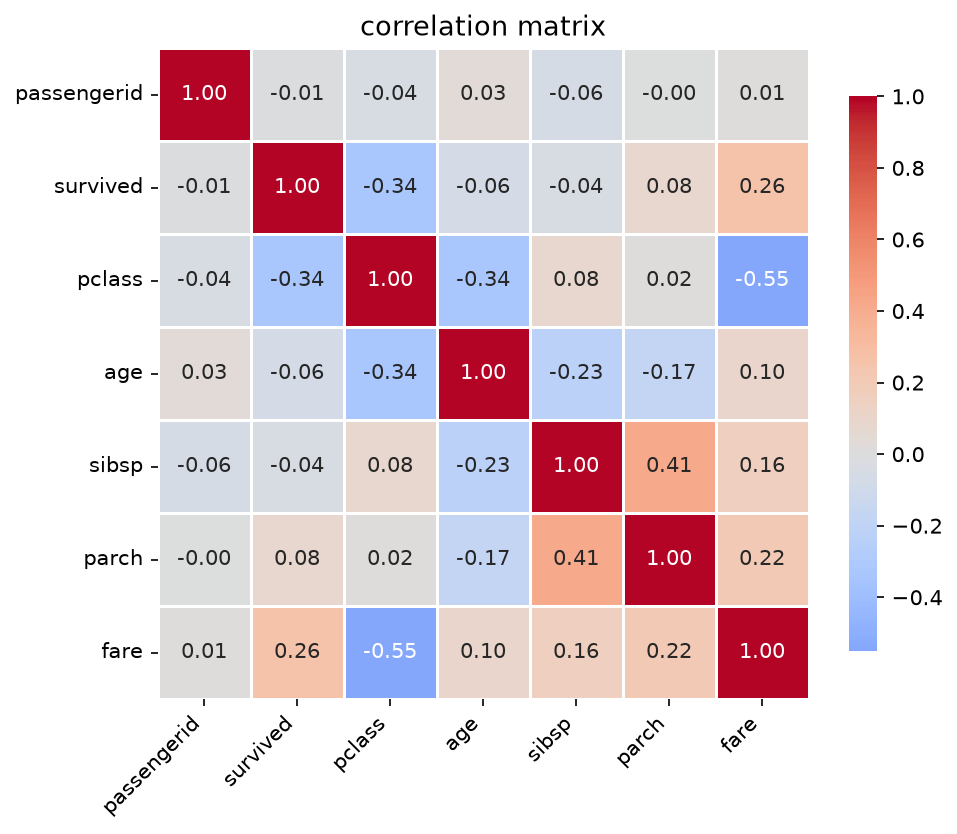
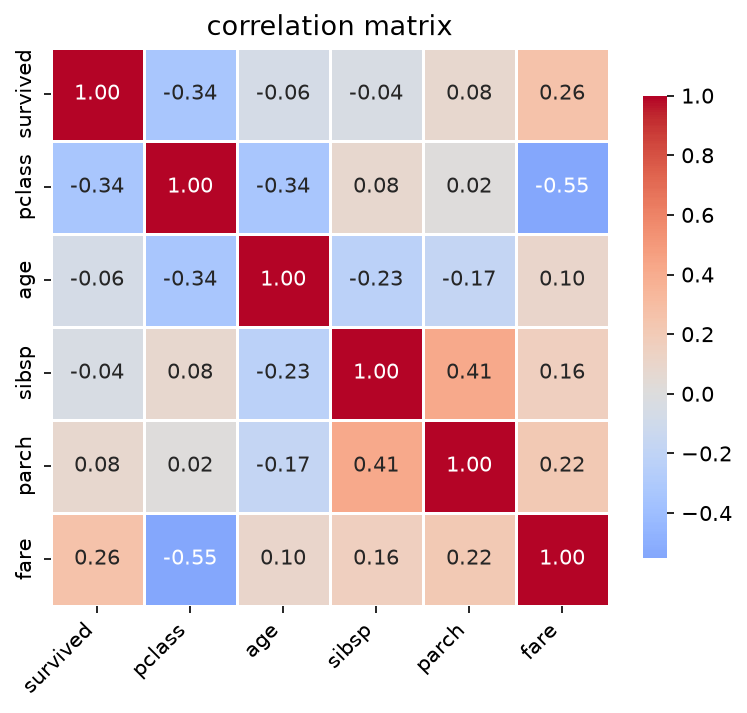
feat: add chat with data feature — ask questions about your dataset

diff --git a/streamlit_app.py b/streamlit_app.py
@@ -555,3 +555,61 @@ if "results" in st.session_state:
             file_name="smartdata_report.md",
             mime="text/markdown",
         )
+
+
+# ── chat with your data ───────────────────────────────────────────────────────
+st.markdown("---")
+st.markdown('<p class="section-label">Ask a question about your data</p>', unsafe_allow_html=True)
+
+# clear chat history when a new file is uploaded
+if "last_file" not in st.session_state or st.session_state["last_file"] != uploaded_file.name:
+    st.session_state["chat_history"] = []
+    st.session_state["last_file"] = uploaded_file.name
+
+# show existing chat messages
+if "chat_history" in st.session_state:
+    for message in st.session_state["chat_history"]:
+        if message["role"] == "user":
+            st.markdown(f"""
+            <div style="text-align:right; margin: 8px 0;">
+                <span style="background:#7c3aed; color:white; padding:8px 14px;
+                border-radius:12px 12px 2px 12px; font-size:13px; display:inline-block;
+                max-width:75%; text-align:left;">
+                    {message["content"]}
+                </span>
+            </div>""", unsafe_allow_html=True)
+        else:
+            st.markdown(f"""
+            <div style="text-align:left; margin: 8px 0;">
+                <span style="background:#f3e8ff; color:#3b0764; padding:8px 14px;
+                border-radius:12px 12px 12px 2px; font-size:13px; display:inline-block;
+                max-width:75%; text-align:left; line-height:1.6;">
+                    {message["content"]}
+                </span>
+            </div>""", unsafe_allow_html=True)
+
+# input box fixed at bottom feel
+question = st.chat_input("Ask anything about your dataset...")
+
+if question and "results" in st.session_state:
+    from agent.agent import chat_with_data
+
+    # add user message to history
+    st.session_state["chat_history"].append({"role": "user", "content": question})
+
+    # get answer from groq
+    with st.spinner("thinking..."):
+        answer = chat_with_data(
+            question,
+            profile,
+            st.session_state["results"]
+        )
+
+    # add answer to history
+    st.session_state["chat_history"].append({"role": "assistant", "content": answer})
+
+    # rerun to show the new messages
+    st.rerun()
+
+elif question and "results" not in st.session_state:
+    st.warning("Run the agent analysis first before asking questions.")

diff --git a/agent/agent.py b/agent/agent.py
@@ -275,3 +275,55 @@ def _save_markdown_report(profile: dict, missing_report: dict, results: dict):
         f.write("\n".join(lines))
 
     console.print(f"[dim]report saved → {report_path}[/dim]")
+
+
+# answers a user question about their dataset using the analysis results as context
+# this is what powers the chat feature in streamlit -- groq never sees raw data,
+# just the stats, outliers, schema, and missing value report we already computed
+def chat_with_data(question: str, profile: dict, results: dict) -> str:
+
+    # build a rich context from everything the agent already found
+    # the more specific the context, the more specific the answers
+    context = f"""you have already analyzed a dataset with the following profile:
+
+shape: {profile['shape']['rows']} rows, {profile['shape']['columns']} columns
+columns: {', '.join(profile['columns'].keys())}
+
+missing value handling (already completed before analysis):
+{json.dumps(results.get('_missing_report', {}), indent=2)}
+
+note: if missing_report is empty, it means the data had no missing values or they were already cleaned.
+"""
+
+summary statistics:
+{json.dumps(results.get('summary_stats', {}), indent=2, default=str)}
+
+outlier detection:
+{json.dumps(results.get('detect_outliers', {}), indent=2, default=str)}
+"""
+
+    try:
+        chat_client = Groq(api_key=os.getenv("GROQ_API_KEY"))
+        response = chat_client.chat.completions.create(
+            model="llama-3.3-70b-versatile",
+            messages=[
+                {
+                    "role": "system",
+                    "content": f"""you are a data analyst assistant. a user has just analyzed their dataset 
+and wants to ask questions about it. answer based only on the analysis results provided.
+be specific -- reference actual numbers and column names from the context.
+keep answers concise, 2-4 sentences max. write in plain english, no bullet points.
+
+here is the analysis context:
+{context}"""
+                },
+                {
+                    "role": "user",
+                    "content": question
+                }
+            ],
+            max_tokens=400,
+        )
+        return response.choices[0].message.content
+    except Exception as e:
+        return f"couldn't answer that right now: {str(e)}"

diff --git a/output/report.md b/output/report.md
@@ -9,23 +9,16 @@
 
 ## Summary
 
-The dataset we analyzed contains 891 rows and 12 columns, providing a comprehensive overview of various characteristics of passengers. The columns include passengerid, survived, pclass, age, sibsp, parch, and fare, among others. With a total of 891 rows, this dataset offers a substantial amount of information to draw meaningful insights from. 
+The dataset we analyzed contains 891 rows and 12 columns, providing a comprehensive overview of the information at hand. With no missing values to handle, we were able to dive straight into exploratory data analysis. Our initial examination revealed interesting insights into the distribution of values across various columns. For instance, the 'survived' column, which indicates whether a person survived or not, has a mean of 0.3838 and a median of 0, suggesting that about 38% of the individuals in the dataset survived. The 'pclass' column, which represents the passenger class, has a mean of 2.3086 and a median of 3, indicating that most passengers were in the third class.
 
-In terms of data quality, our analysis revealed that the dataset has no missing values, as indicated by the empty dictionary in the missing value handling section. This suggests that the data is complete and reliable, which is essential for making accurate predictions or conclusions. Additionally, our outlier detection tools found that some columns, such as age, sibsp, parch, and fare, are likely to have outliers, with a significant number of outliers detected using both interquartile range (IQR) and z-score methods. For instance, the age column has 66 IQR outliers and 7 z-score outliers, which may indicate that these values are significantly different from the rest of the data.
+In terms of data quality, our analysis suggests that the dataset is generally well-behaved, with no significant issues that would hinder our analysis. The outlier detection results, however, do indicate the presence of outliers in several columns, including 'age', 'sibsp', 'parch', and 'fare'. Specifically, the 'age' column has 66 outliers according to the interquartile range (IQR) method and 7 outliers according to the z-score method, while the 'fare' column has 116 outliers according to the IQR method and 20 outliers according to the z-score method. These findings suggest that the data may require some cleaning or transformation before proceeding with further analysis.
 
-Our summary statistics analysis provided valuable insights into the distribution of values in each column. For example, the mean passengerid is 446.0, and the median is also 446.0, indicating a symmetrical distribution. The survived column has a mean of 0.3838, which means that approximately 38% of the passengers survived. The pclass column has a mean of 2.3086, and the median is 3.0, suggesting that most passengers were in the third class. The age column has a mean of 29.3616 and a median of 28.0, indicating that the majority of passengers were in their late 20s. 
+Our key findings from the analysis reveal some interesting patterns in the data. The 'age' column has a mean of 29.3616 and a median of 28, with a standard deviation of 13.0197, indicating a relatively wide range of ages in the dataset. The 'fare' column, on the other hand, has a mean of 32.2042 and a median of 14.4542, with a standard deviation of 49.6934, suggesting a significant variation in fares paid by passengers. The 'sibsp' and 'parch' columns, which represent the number of siblings/spouses and parents/children aboard, respectively, also exhibit interesting patterns, with means of 0.523 and 0.3816, respectively.
 
-Some of the key findings from our analysis include the fact that the fare column has a wide range of values, with a minimum of 0.0 and a maximum of 512.3292, indicating significant variation in the prices paid by passengers. The sibsp and parch columns also show a wide range of values, with some passengers having many siblings or spouses aboard, while others had none. These findings suggest that the dataset contains a diverse range of passengers with varying characteristics, and further analysis could help identify patterns or relationships between these characteristics and the likelihood of survival.
+Overall, our analysis provides a solid foundation for further exploration of the dataset. With a good understanding of the distribution of values and the presence of outliers, we can now proceed to investigate relationships between columns and identify potential correlations or patterns that may be hidden in the data. The 'plot_distributions', 'plot_missing_heatmap', and 'plot_correlation_heatmap' tools will be useful in visualizing these relationships and gaining a deeper understanding of the dataset.
 
 ## Summary Statistics
 
-### passengerid
-- mean: 446.0
-- median: 446.0
-- std: 257.3538
-- min: 1
-- max: 891
-- skewness: 0.0
 ### survived
 - mean: 0.3838
 - median: 0.0
@@ -78,7 +71,6 @@ Some of the key findings from our analysis include the fact that the fare column
 
 ## Plots Generated
 
-- output/dist_passengerid.png
 - output/dist_survived.png
 - output/dist_pclass.png
 - output/dist_age.png